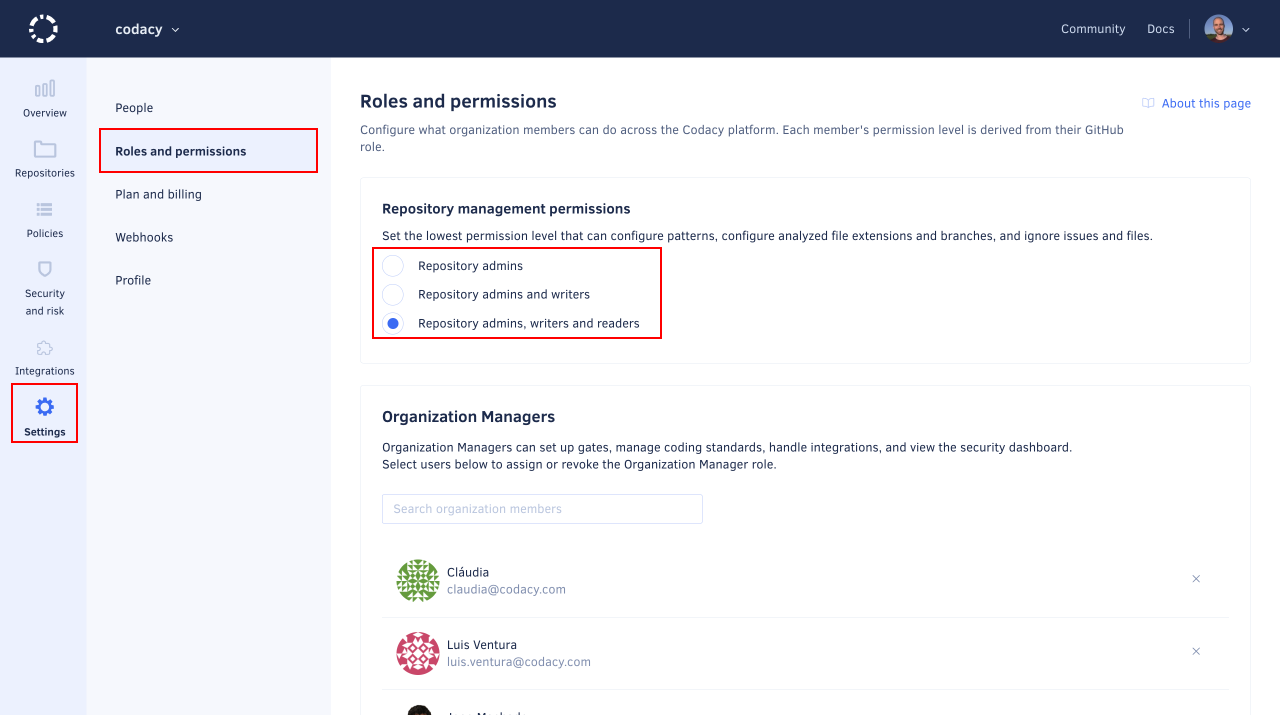
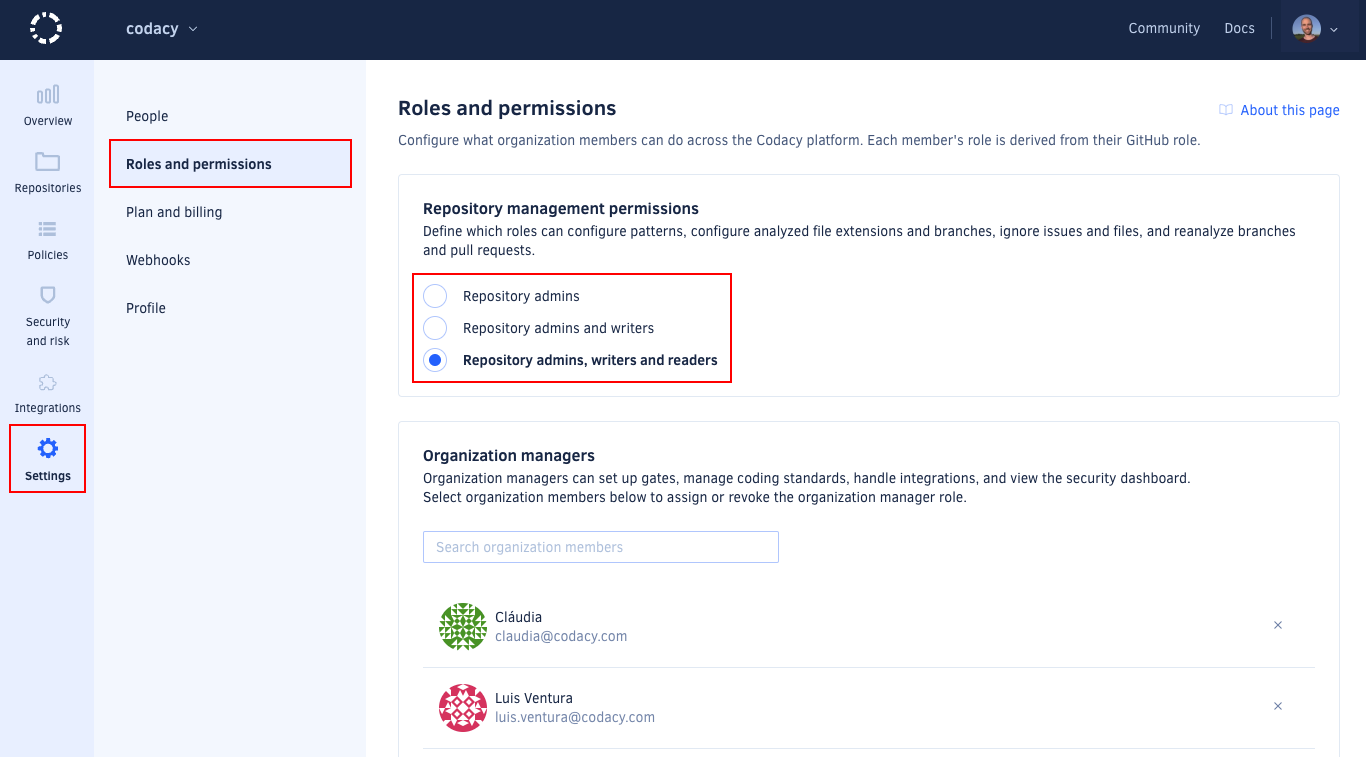
feat: Add reanalysis to set of features under analysis configuration PLUTO-788 (#1943)
* feat: Add reanalysis to set of features under analysis configuration

* feat: Update screenshots

diff --git a/docs/organizations/roles-and-permissions-for-organizations.md b/docs/organizations/roles-and-permissions-for-organizations.md
@@ -65,7 +65,7 @@ The table below maps the GitHub Cloud and GitHub Enterprise roles to the corresp
       <td class="yes">Yes</td>
     </tr>
     <tr>
-      <td>Ignore issues and files,<br/>configure code patterns and file extensions,<br/>manage branches</td>
+      <td>Ignore issues and files,<br/>configure code patterns and file extensions,<br/>manage branches,<br/>reanalyze branches and pull requests</td>
       <td>No</td>
       <td colspan="2" class="yes"><a href="#change-analysis-configuration">Configurable</a></td>
       <td colspan="2" class="yes"><a href="#change-analysis-configuration">Configurable</a></td>
@@ -200,7 +200,7 @@ The table below maps the GitLab Cloud and GitLab Enterprise roles to the corresp
       <td colspan="2" class="yes">Yes</td>
     </tr>
     <tr>
-      <td>Ignore issues and files,<br/>configure code patterns and file extensions,<br/>manage branches</td>
+      <td>Ignore issues and files,<br/>configure code patterns and file extensions,<br/>manage branches,<br/>reanalyze branches and pull requests</td>
       <td>No</td>
       <td colspan="2" class="yes"><a href="#change-analysis-configuration">Configurable</a></td>
       <td class="yes"><a href="#change-analysis-configuration">Configurable</a></td>
@@ -320,7 +320,7 @@ The table below maps the Bitbucket Cloud and Bitbucket Server roles to the corre
       <td class="yes">Yes</td>
     </tr>
     <tr>
-      <td>Ignore issues and files,<br/>configure code patterns and file extensions,<br/>manage branches</td>
+      <td>Ignore issues and files,<br/>configure code patterns and file extensions,<br/>manage branches,<br/>reanalyze branches and pull requests</td>
       <td colspan="2" class="yes"><a href="#change-analysis-configuration">Configurable</a></td>
       <td>Inherits original permission</td>
       <td class="yes">Yes</td>
@@ -426,6 +426,7 @@ To change this, open your organization **Settings**, page **Roles and permission
 -   [Configure code patterns](../repositories-configure/configuring-code-patterns.md)
 -   [Configure file extensions](../repositories-configure/file-extensions.md)
 -   [Manage branches](../repositories-configure/managing-branches.md)
+-   [Reanalyze branches and pull requests](../faq/repositories/how-do-i-reanalyze-my-repository.md)
 
 ![Configuring who can change analysis configurations](images/roles-permissions-repo-management.png)
 

diff --git a/docs/faq/repositories/how-do-i-reanalyze-my-repository.md b/docs/faq/repositories/how-do-i-reanalyze-my-repository.md
@@ -1,5 +1,7 @@
 # How do I reanalyze my repository?
 
+!!! info "Organization admins can [manage access to this feature](../../organizations/roles-and-permissions-for-organizations.md#change-analysis-configuration)"
+
 Reanalyze the last commit in your branch or pull request:
 
 -   To update the Codacy analysis results taking into account the most recent configurations for your repository without waiting for a new commit to trigger the analysis
